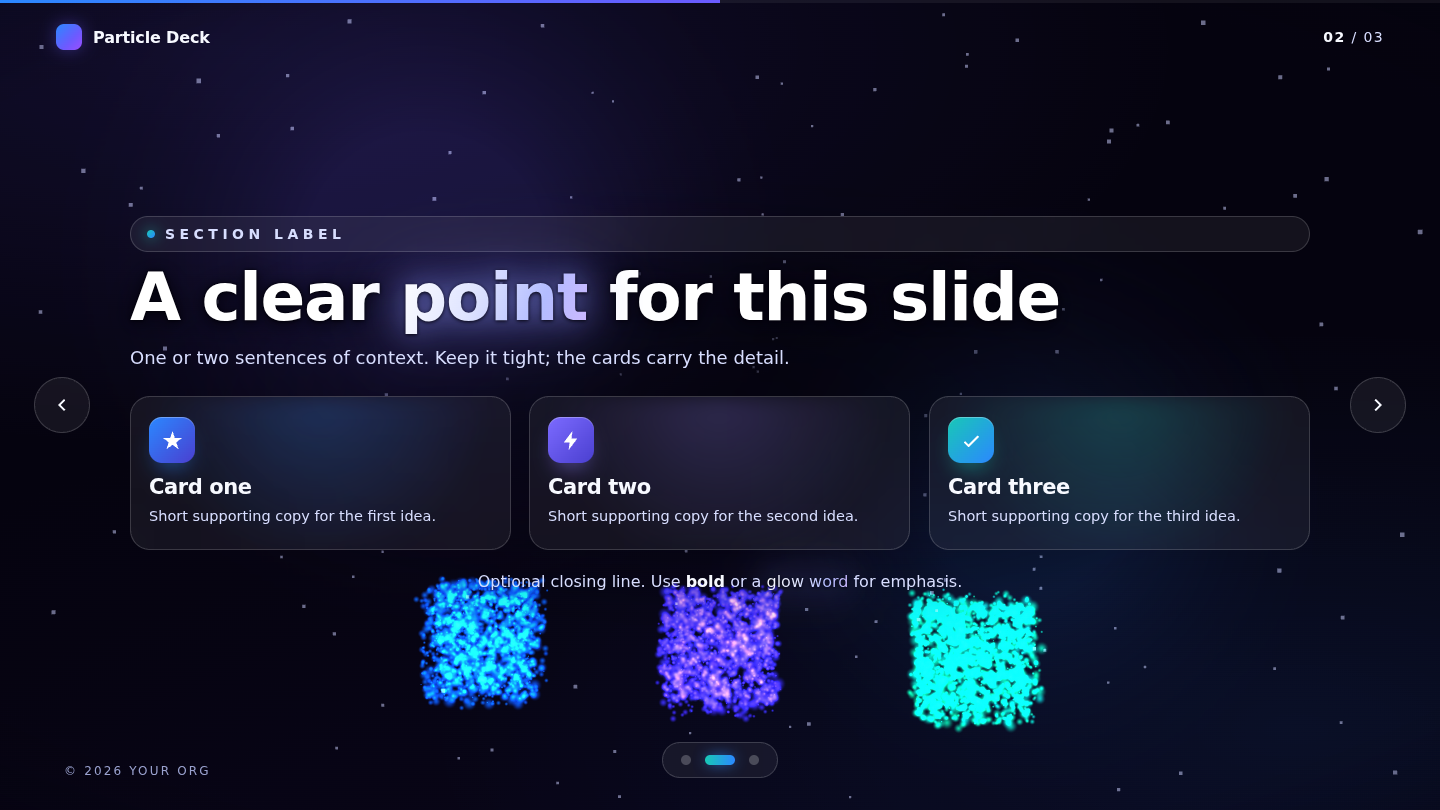
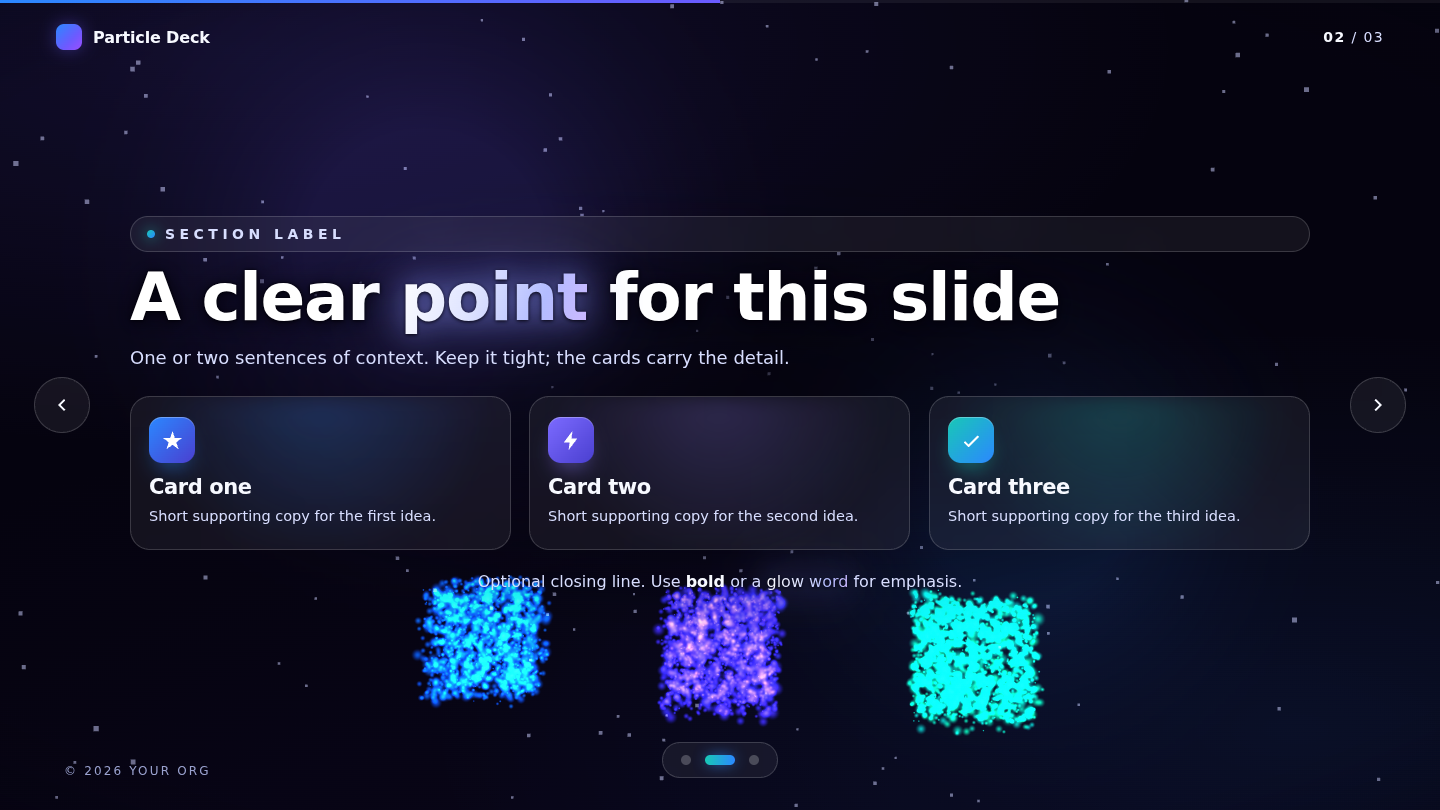
Whirlwind surges forward to obscure, then recedes (depth in transition)
Add a depth move to the whirlwind: the morphing field now surges toward
the camera mid-transition (uForward, arc-enveloped → zero at rest) and
the canvas is raised above the slide for the duration, so the dance comes
forward and obscures the text, then recedes back behind to reveal the
next slide. Slide swaps at the obscured peak. Content stays crisp DOM.

- scene.js: uForward uniform + pos.z surge in the shader
- app.js: raise #bg-canvas to front during the transition, swap at peak,
  drop it back as the field recedes
- css: #bg-canvas.front; README + previews updated

Claude-Session: https://claude.ai/code/session_01FRZWzFF1btedcNibAcTrn4

Changed region(s): [[0.625, 0.7099, 0.75, 0.9259], [0.4375, 0.7099, 0.5625, 0.8951], [0.2812, 0.7099, 0.4062, 0.8951]]

diff --git a/assets/js/app.js b/assets/js/app.js
@@ -6,7 +6,8 @@ import { Cosmos } from "./scene.js";
 
 const gsap = window.gsap;
 
-const cosmos = new Cosmos(document.getElementById("bg-canvas"));
+const bgCanvas = document.getElementById("bg-canvas");
+const cosmos = new Cosmos(bgCanvas);
 cosmos.start();
 
 const slides = Array.from(document.querySelectorAll(".slide"));
@@ -66,27 +67,33 @@ function animateOut(slide) {
   });
 }
 
-/* ---- navigation ---- */
+/* ---- navigation ----
+   The morphing field swirls AND surges forward (in front of the slide)
+   to obscure it mid-transition, then recedes back behind as it settles.
+   We raise the canvas above the DOM for the duration, swap the slide at
+   the obscured peak, and drop the canvas back once the field recedes. */
 function go(index) {
   if (index < 0 || index >= total || index === current || animating) return;
   animating = true;
   const prevSlide = slides[current];
   const nextSlide = slides[index];
 
+  bgCanvas.classList.add("front");        // field renders over the slide
   animateOut(prevSlide);
-
-  // drive the 3D scene from the slide's own declaration
-  applyScene(nextSlide);
+  applyScene(nextSlide);                   // morph + swirl + forward surge
   current = index;
   updateChrome();
 
-  // deterministic swap once the out-animation has played
+  // swap the slide at the obscured peak
   setTimeout(() => {
     prevSlide.classList.remove("is-active");
     nextSlide.classList.add("is-active");
     animateIn(nextSlide);
-    setTimeout(() => (animating = false), 650);
-  }, 360);
+  }, 600);
+
+  // drop the field back behind the content as it recedes
+  setTimeout(() => bgCanvas.classList.remove("front"), 1450);
+  setTimeout(() => (animating = false), 1550);
 }
 
 function next() { go(current + 1); }

diff --git a/assets/js/scene.js b/assets/js/scene.js
@@ -148,13 +148,14 @@ export class Cosmos {
       uArc: { value: 1.3 },
       uSpin: { value: 0.0 },
       uSwirl: { value: 2.4 },   // whirlwind: extra rotation that peaks mid-transition
+      uForward: { value: 6.2 }, // depth surge toward the camera, peaks mid-transition
     };
 
     const mat = new THREE.ShaderMaterial({
       transparent: true, depthWrite: false, blending: THREE.AdditiveBlending,
       uniforms: this.uniforms,
       vertexShader: `
-        uniform float uTime, uMix, uPix, uArc, uSpin, uSwirl;
+        uniform float uTime, uMix, uPix, uArc, uSpin, uSwirl, uForward;
         attribute vec3 aFrom; attribute vec3 aTo;
         attribute vec3 cFrom; attribute vec3 cTo;
         attribute float aRand; attribute float aSize;
@@ -177,6 +178,9 @@ export class Cosmos {
           pos = vec3(pos.x*c - pos.z*s, pos.y, pos.x*s + pos.z*c);
           pos.y += sin(uTime*0.7 + aRand*6.2831)*0.07 + arc*0.6*sin(aRand*30.0); // lift + scatter mid-swirl
           pos.x += cos(uTime*0.5 + aRand*6.2831)*0.05;
+          // surge toward the camera mid-transition so the dance comes forward
+          // and obscures the slide, then recedes back (arc = 0 at rest)
+          pos.z += arc * uForward;
 
           vec4 mv = modelViewMatrix * vec4(pos,1.0);
           gl_PointSize = aSize * (165.0 / -mv.z) * uPix * (0.7 + 0.3*sin(uTime*2.0 + aRand*30.0));

diff --git a/assets/css/styles.css b/assets/css/styles.css
@@ -52,6 +52,9 @@ html, body {
   z-index: 0;
   display: block;
 }
+/* during a transition the field surges forward; raise it above the slide
+   so it obscures the content, then it drops back behind as it recedes */
+#bg-canvas.front { z-index: 35; }   /* above slides (5), below nav chrome (40) */
 
 .cosmos-wash {
   position: fixed;

diff --git a/README.md b/README.md
@@ -37,9 +37,10 @@ Full guide → **[AUTHORING.md](AUTHORING.md)**.
 
 ## What the engine gives you
 
-- **Whirlwind transitions** — on each slide change the particle field swirls and dances in
-  the background as it morphs between the slide shapes (arc displacement + an enveloped spin
-  that peaks mid-transition and settles at rest). Content is always crisp DOM on top.
+- **Whirlwind transitions** — on each slide change the particle field swirls and dances as it
+  morphs between the slide shapes, and **surges forward to obscure the slide** mid-transition
+  before receding back behind to reveal the next one (arc displacement + an enveloped spin and
+  depth-surge that peak mid-transition and are zero at rest). Content is always crisp DOM.
 - **Restrained cosmic theme** — cool white/violet/blue with sparse accent pops
 - **Glowing, radiating key words** + crisp readable text (focal scrim + dark halo)
 - **Framer-style flows** — depth-based reveals, card cascades, per-slide camera moves